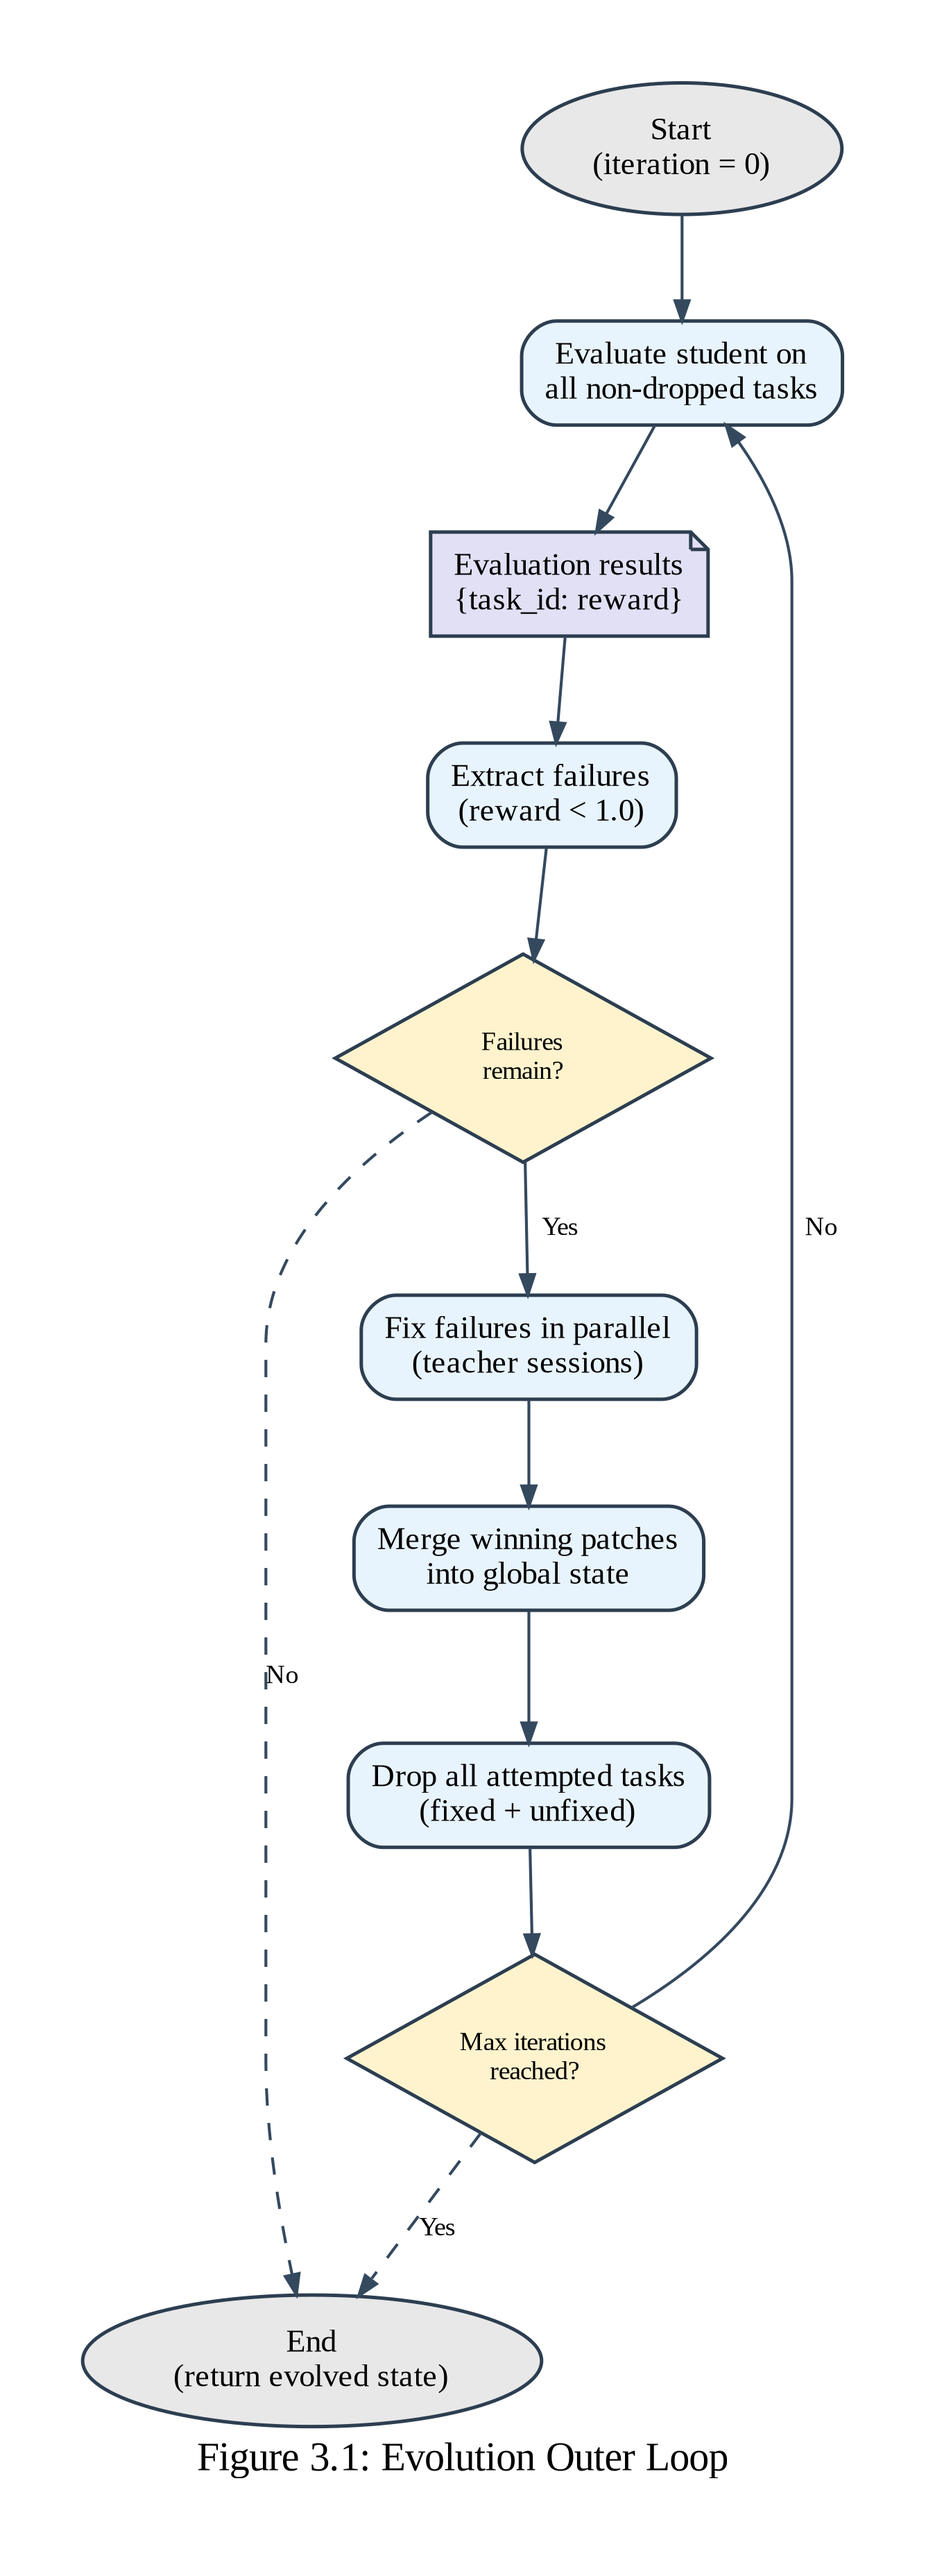
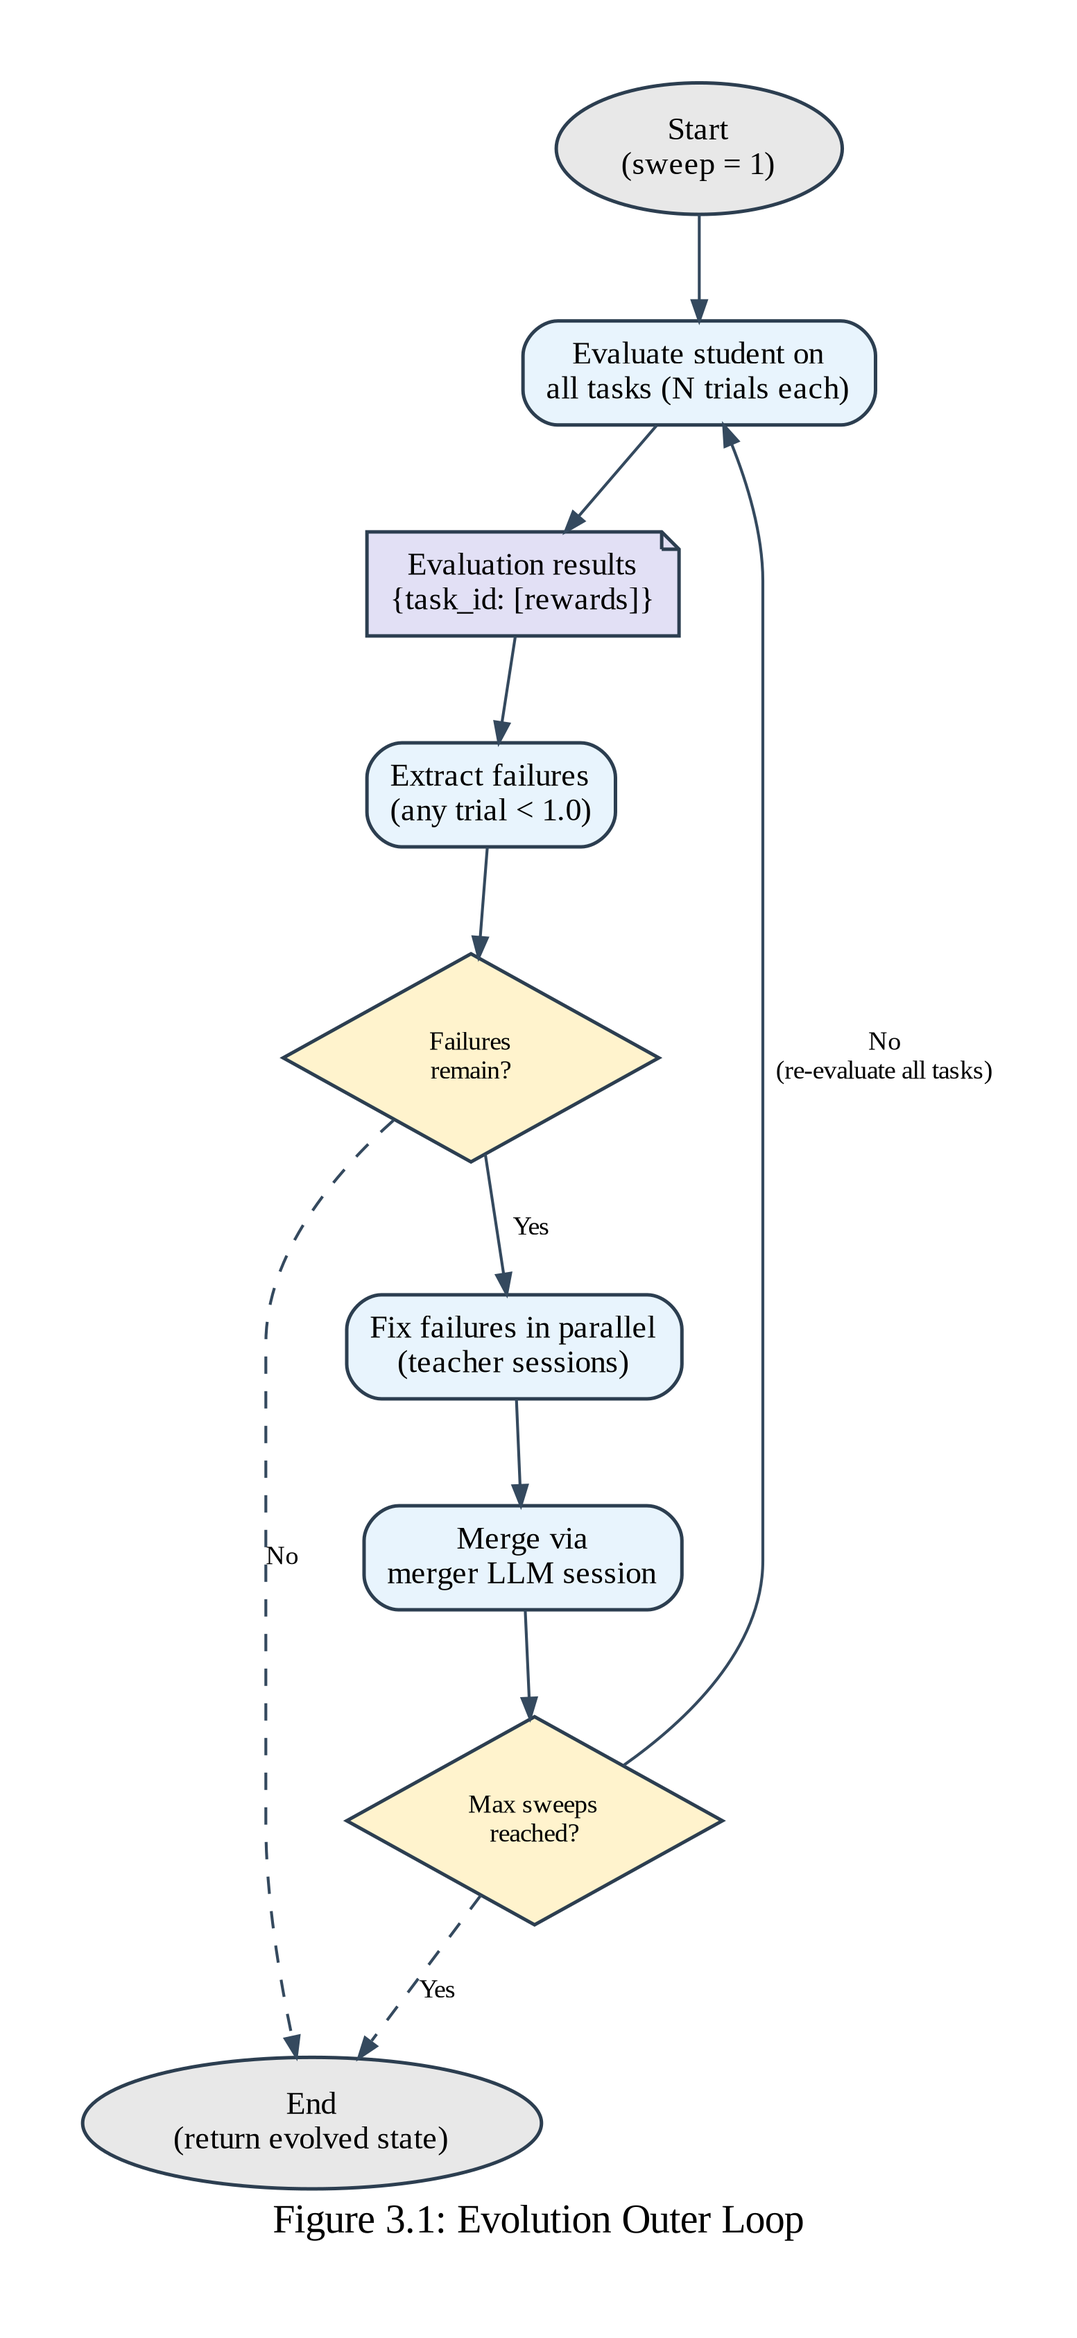
further fixes

diff --git a/evo/web/templates/index.html b/evo/web/templates/index.html
@@ -345,6 +345,7 @@
     }
 
     let _viewingActive = {{ 'true' if active_run_id and active_run_id == viewed_run_id else 'false' }};
+    let _activeRunId = {{ ('"%s"' % active_run_id) if active_run_id else 'null' | safe }};
     let _sessionRefreshSeq = 0;
 
     function resetForNewRun() {
@@ -354,6 +355,7 @@
       _logPhase = '';
       _logStepId = 0;
       hideContinueTestButton();
+      fetch('/api/state').then(r => r.json()).then(s => { _activeRunId = s.active_run_id; }).catch(() => {});
       refreshHistory();
       htmx.ajax('GET', '/results', {target: '#results-panel', swap: 'innerHTML'});
       CHART_IDS.forEach(id => {
@@ -935,11 +937,9 @@
       document.getElementById('continue-test-btn').classList.add('hidden');
     }
     function continueTest() {
-      fetch('/api/state').then(r => r.json()).then(s => {
-        if (!s.active_run_id) return;
-        fetch(`/runs/${s.active_run_id}/continue-test`, { method: 'POST' })
-          .then(() => hideContinueTestButton());
-      });
+      if (!_activeRunId) return;
+      fetch(`/runs/${_activeRunId}/continue-test`, { method: 'POST' })
+        .then(() => hideContinueTestButton());
     }
 
     function hideTimeline() {

diff --git a/evo/parallel_loop.py b/evo/parallel_loop.py
@@ -23,7 +23,7 @@ from evo.models import (
     Patch, FixResult, SweepResult, LoopState, TestResults,
     FIX_TIER_PROMPT, FIX_TIER_TOOLS, FIX_TIER_CODE, FIX_TIER_NONE,
     PHASE_SWEEP, PHASE_FIX, PHASE_MERGE, PHASE_TEST,
-    PHASE_RUNNING, PHASE_DONE, PHASE_SKIPPED,
+    PHASE_RUNNING, PHASE_DONE, PHASE_SKIPPED, PHASE_WAITING,
     RUN_RUNNING, RUN_FINISHED, RUN_STOPPED, RUN_ERROR,
     task_passed,
 )
@@ -667,19 +667,14 @@ def run_loop(
     if test_ids and not stopped:
         # Gate: wait for explicit user confirmation before running test eval.
         if test_continue_event is not None:
-            phase(0, PHASE_TEST, "waiting")
+            phase(0, PHASE_TEST, PHASE_WAITING)
             status("\nSweeps complete. Waiting for confirmation to run test evaluation...")
-            # Block until user clicks "Continue to Test" or stop is requested.
             while not test_continue_event.is_set():
                 if _stopped():
                     stopped = True
                     break
                 test_continue_event.wait(timeout=0.5)
-            if stopped:
-                phase(0, PHASE_TEST, PHASE_SKIPPED)
-                state.save(PATCHES_DIR / "loop_state.json")
-                status(f"\nLoop stopped. {state.total_fixed}/{state.total_failures} total fixes across {len(state.history)} sweep(s).")
-                return state
+    if test_ids and not stopped:
         phase(0, PHASE_TEST, PHASE_RUNNING)
         state.test_results = _run_test_evaluation(
             domain=domain,

diff --git a/text/gen_diagrams.py b/text/gen_diagrams.py
@@ -430,7 +430,7 @@ def fig_11_parallel_architecture():
     process_node(g, "extract", "Extract N failures")
 
     # Parallel threads
-    par = cluster(g, "parallel", "  ThreadPoolExecutor (max_workers = parallelism)  ")
+    par = cluster(g, "parallel", "  ThreadPoolExecutor  ")
     par.attr(bgcolor="#F0F4FF")
     for i in range(1, 4):
         sub = cluster(par, f"t{i}", f"  Thread {i}  ")
@@ -449,7 +449,7 @@ def fig_11_parallel_architecture():
     g.subgraph(par)
 
     process_node(g, "collect", "Collect FixResults")
-    process_node(g, "merge", "Merge winners\n(sequential)")
+    process_node(g, "merge", "Merge via\nmerger LLM session")
     data_node(g, "state", "Updated\nglobal state")
 
     g.edge("eval", "extract")
@@ -495,7 +495,7 @@ def fig_12_patch_pipeline():
     c_path = cluster(g, "code_path", "  Preprocessor  ")
     process_node(c_path, "c_find", "Find old_text in\npreprocessor source")
     process_node(c_path, "c_replace", "Replace with\nnew_text")
-    decision_node(c_path, "c_safe", "Passes static\nanalysis?")
+    decision_node(c_path, "c_safe", "Passes static\nanalysis +\ncompiles?")
     c_path.edge("c_find", "c_replace")
     c_path.edge("c_replace", "c_safe")
     g.subgraph(c_path)

diff --git a/evo/models.py b/evo/models.py
@@ -31,6 +31,7 @@ PHASE_TEST = "test"
 PHASE_RUNNING = "running"
 PHASE_DONE = "done"
 PHASE_SKIPPED = "skipped"
+PHASE_WAITING = "waiting"
 
 
 def task_passed(rewards: list[Optional[float]], threshold: float = 1.0) -> bool:
